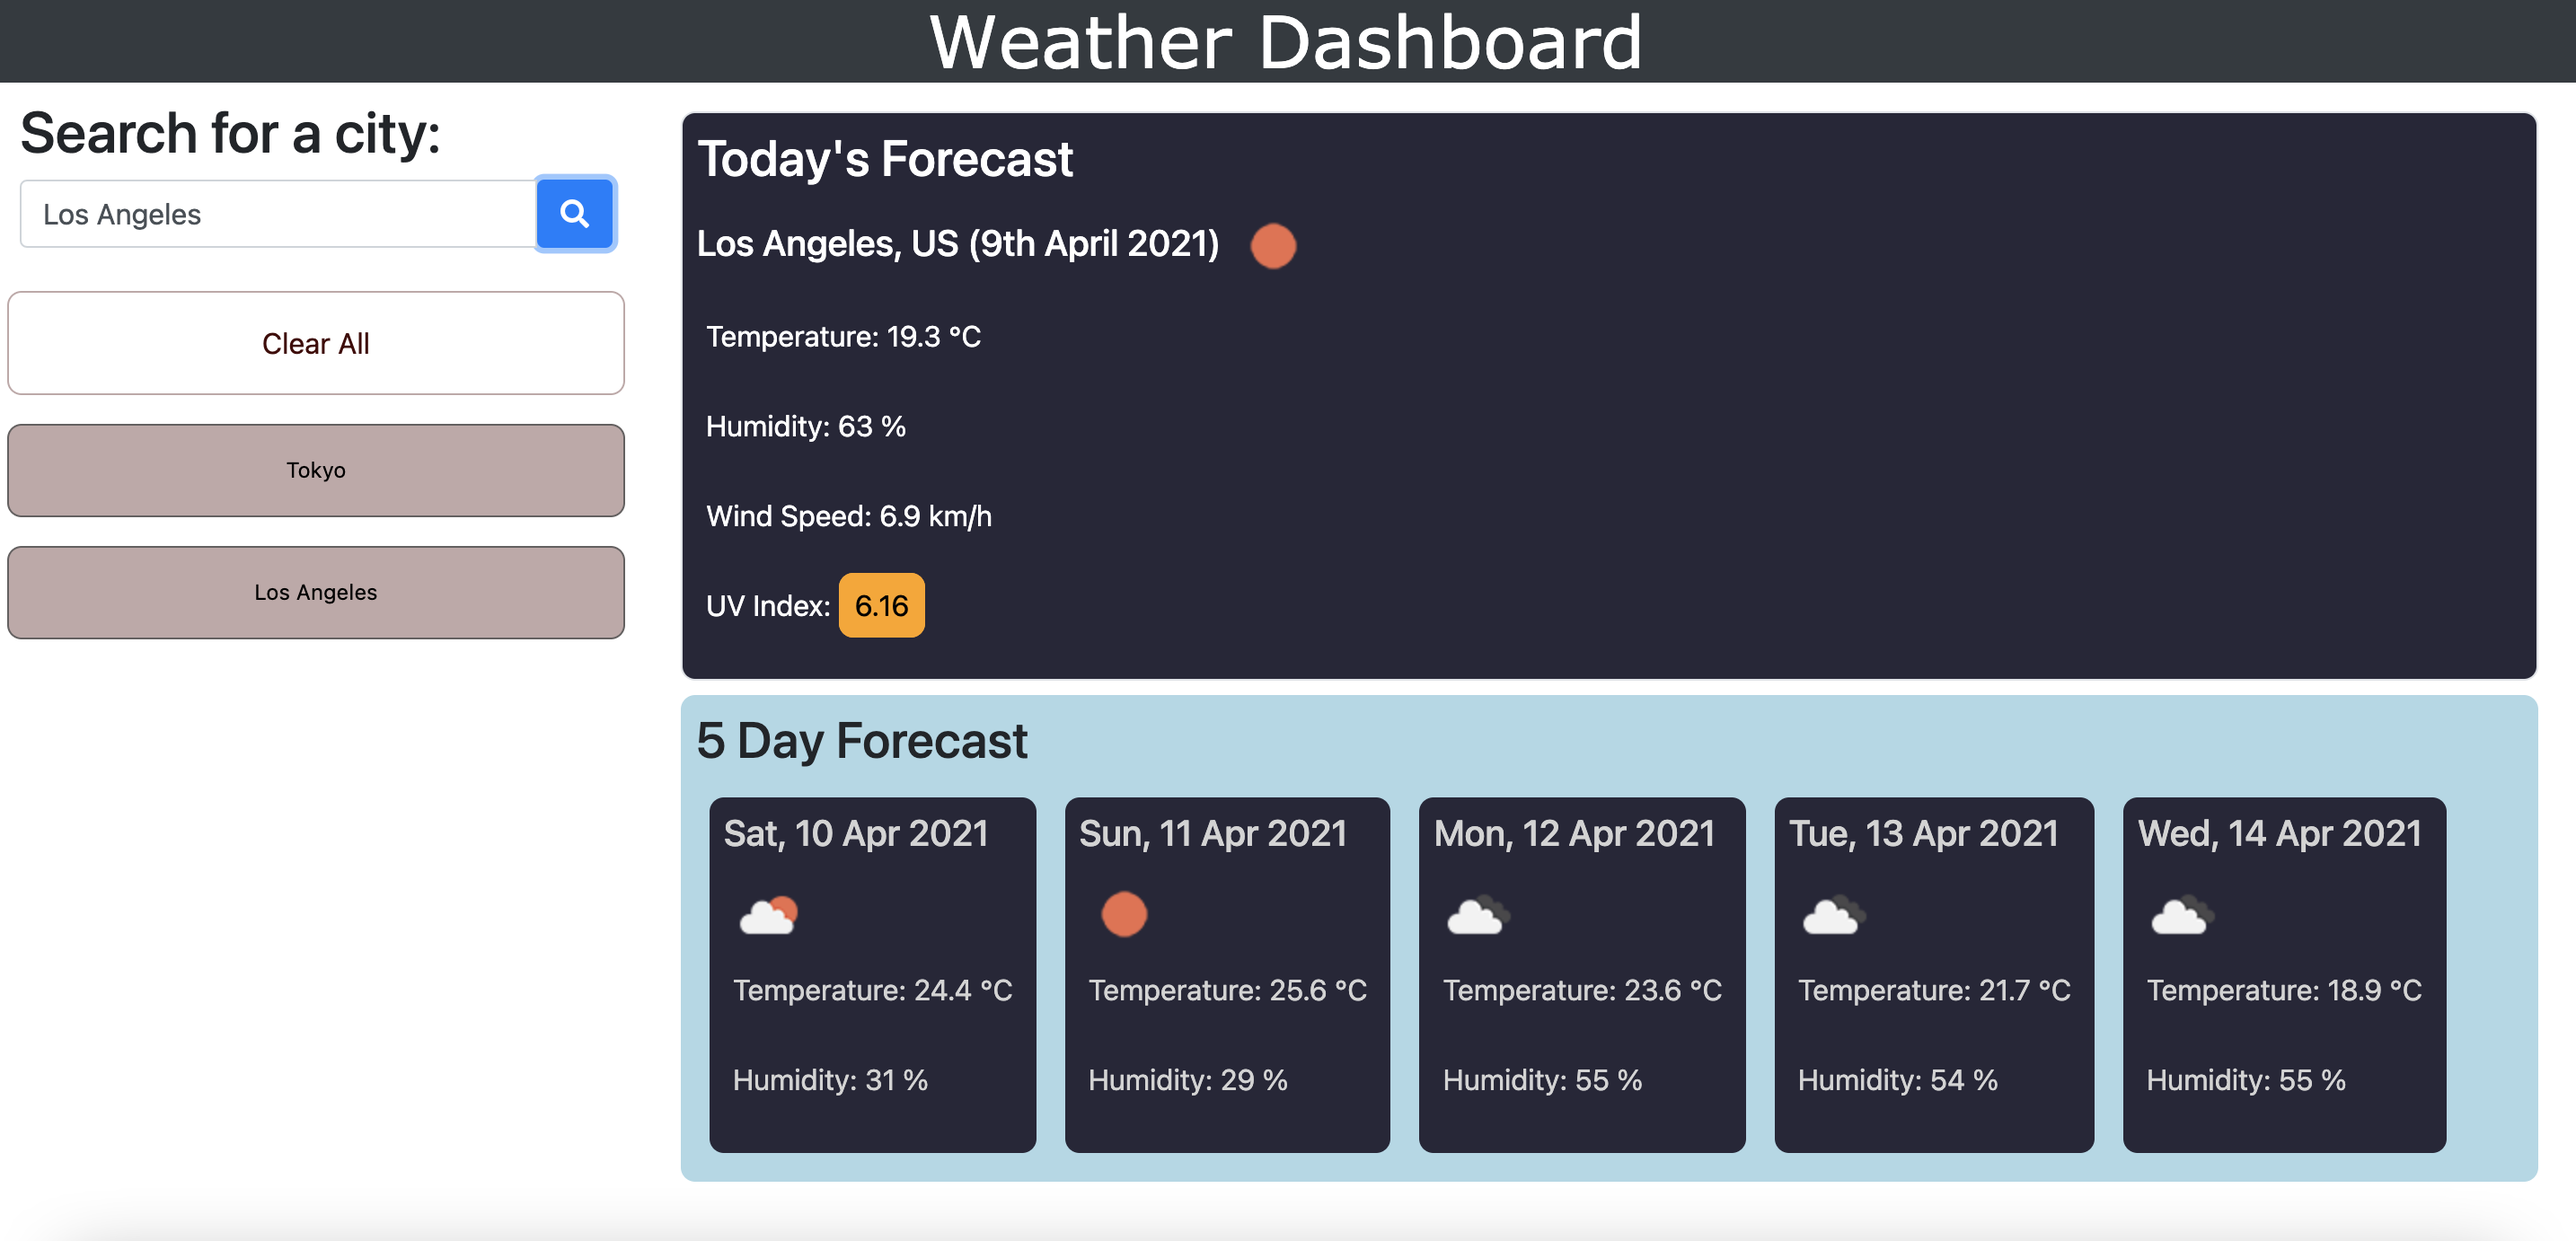
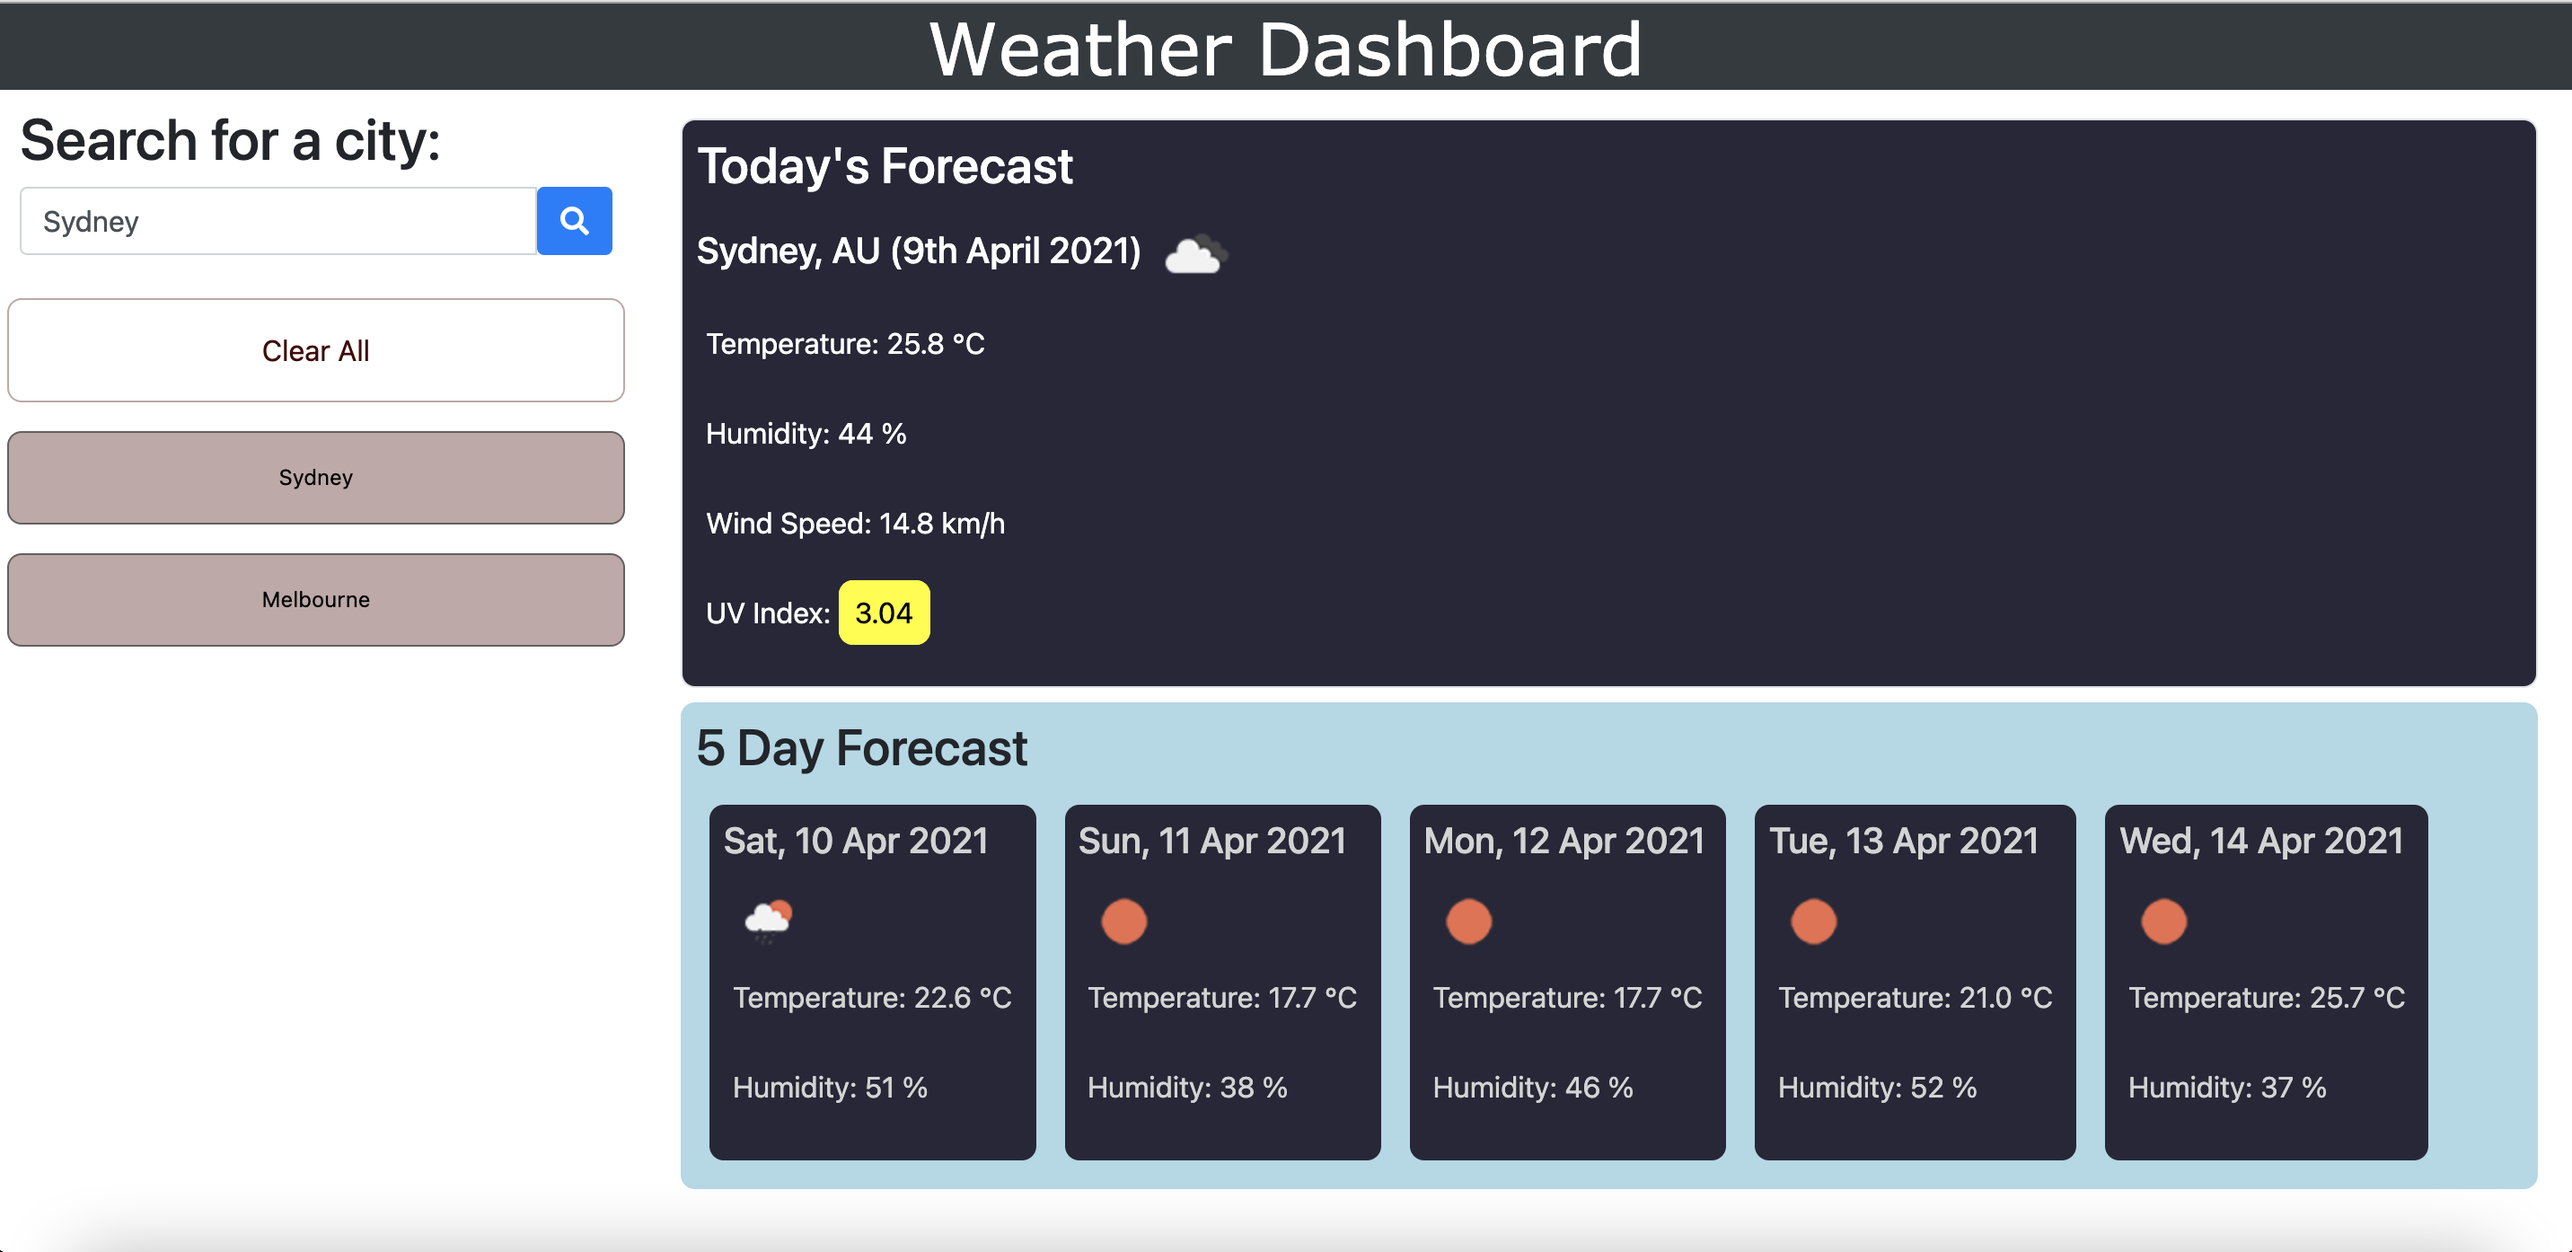
updated screenshots and README

diff --git a/assets/css/style.css b/assets/css/style.css
@@ -43,6 +43,8 @@ p {
     color: var(--white);
     border-radius: 0.5rem;
     border: 1px solid var(--gentlered);
+    transition: 0.3s;
+    font-size: x-large;
 }
 
 #searchHistory button {

diff --git a/README.md b/README.md
@@ -23,6 +23,8 @@ Below the current weather conditions, are a five-day forecast displaying the dat
 
 Clicking on a city in the search history will present you with current and future conditions for that city. Search history is stored in localStorage. 
 
+Note that the search history buttons only go up to the recent five searches. Anything older will be removed from the button list.
+
 A clear all button allows for the user to clear their search history (and their localStorage), also causing the page to refresh, looking brand new.
 
 The following image shows a mock-up of what is expected from this weather dashboard application: 
@@ -31,38 +33,44 @@ The following image shows a mock-up of what is expected from this weather dashbo
 
 ## Screenshots
 
-1. Screenshot of landing page,  displaying current time and past timeblocks (grey).
+1. Screenshot of landing page.
 <br>
 <img src="assets/images/weatherappscreenshot1.png" width="80%">
 <br>
 <br>
 
-2. Screenshot of first search of city "Tokyo", displaying current weather and forecasted weather.
+2. Screenshot of first search of city "Melbourne", displaying current weather and forecasted weather.
 <br>
 <img src="assets/images/weatherappscreenshot2.png" width="80%">
 <br>
 <br>
 
-3. Screenshot of second search of city "Los Angeles", displaying its current weather and forecasted weather. 
+3. Screenshot of second search of city "Sydney", displaying its current weather and forecasted weather. 
 <br>
 <img src="assets/images/weatherappscreenshot3.png" width="80%">
 <br>
 <br>
 
-4. Screenshot of clicking on search history, bringing up the weather forecase of previous search.
-<br>
-<img src="assets/images/weatherappscreenshot6.png" width="80%">
-<br>
-<br>
-
-5. Screenshot of hovering over the "Clear All" button.
+4. Screenshot of clicking on search history (after conducting 5 searches), bringing up the weather forecast of previous search.
 <br>
 <img src="assets/images/weatherappscreenshot4.png" width="80%">
 <br>
 <br>
 
-6. Screenshot of after clicking the "Clear All" button, effectively clearing out the localStorage and refreshing the page.
+5. Screenshot of hovering over the "Clear All" button.
 <br>
 <img src="assets/images/weatherappscreenshot5.png" width="80%">
+<br>
+<br>
+
+6. Screenshot of after clicking the "Clear All" button, effectively clearing out the localStorage and refreshing the page.
+<br>
+<img src="assets/images/weatherappscreenshot6.png" width="80%">
+<br>
+<br>
+
+6. Screenshot of localStorage after clicking the "Clear All" button, indicating that it is now empty.
+<br>
+<img src="assets/images/weatherappscreenshot7.png" width="80%">
 <br>
 <br>
